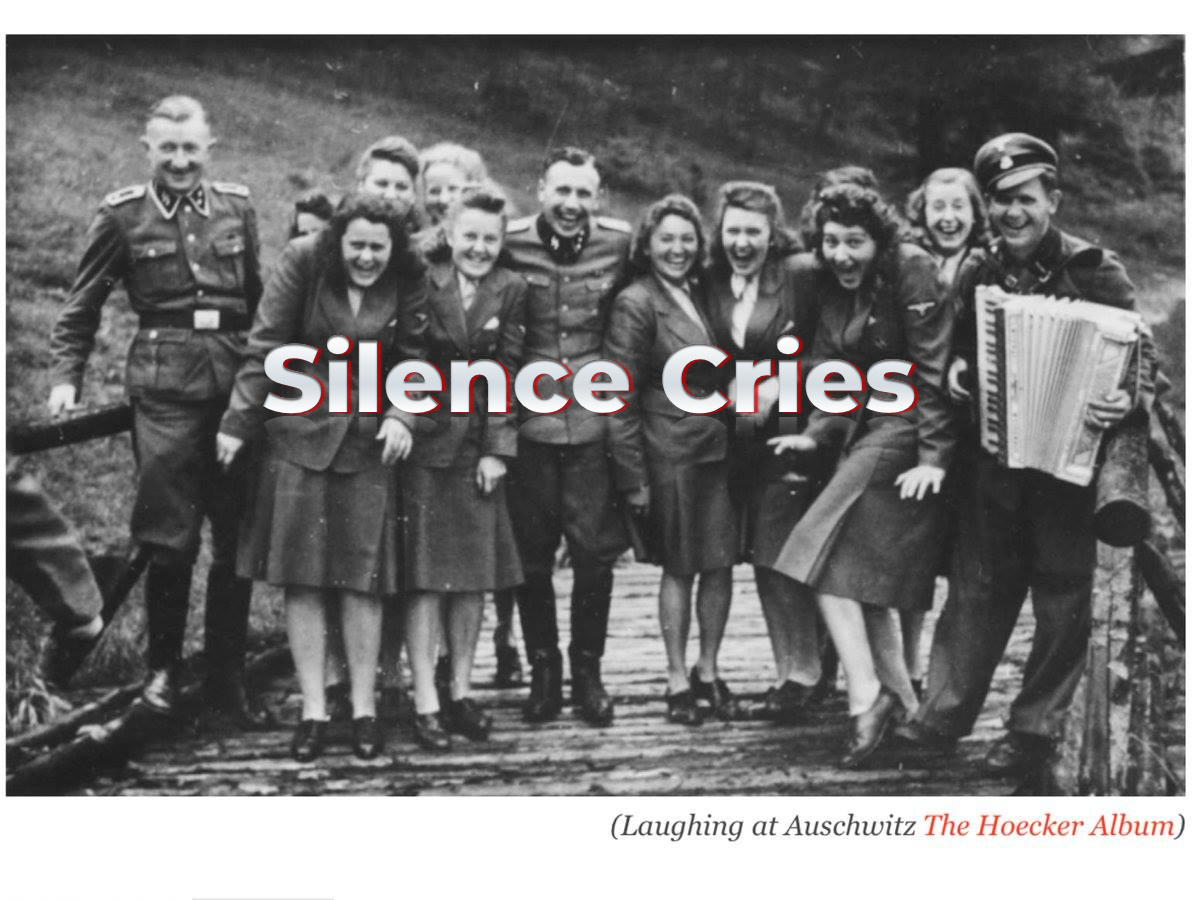
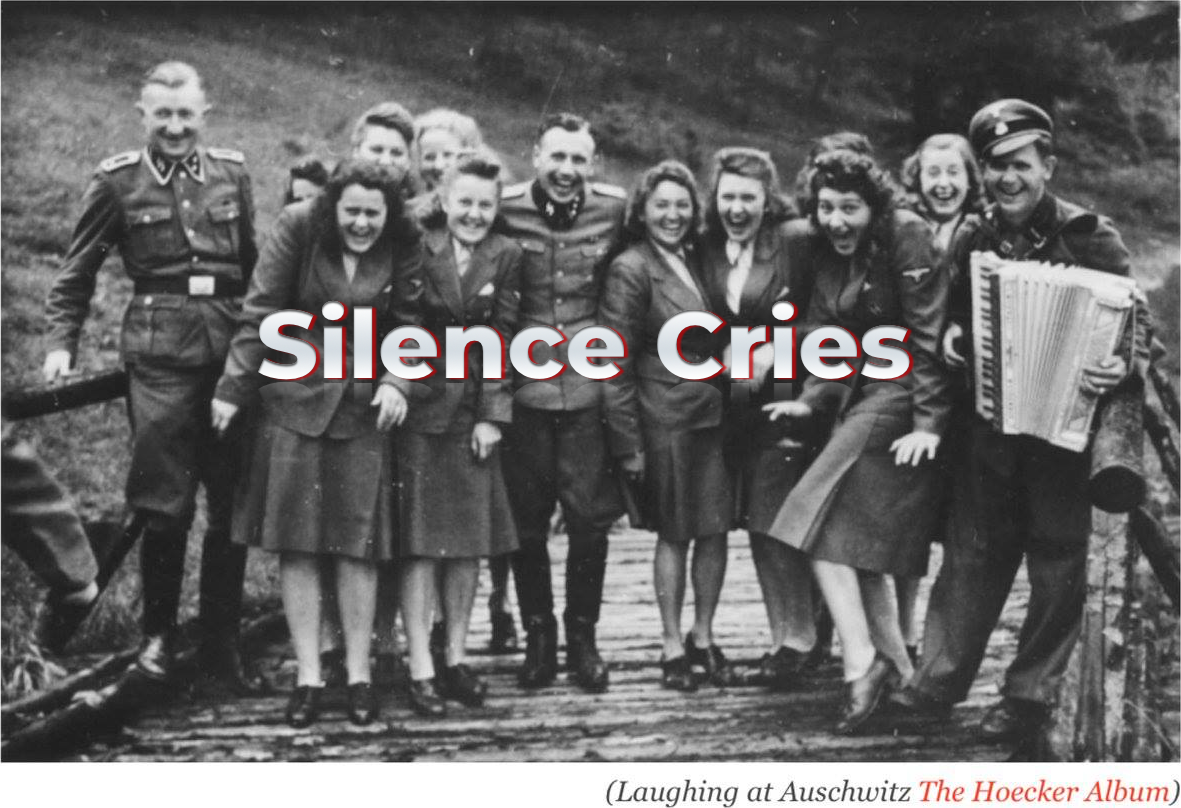
Squashed commit of the following:
commit 4b0727c2fbf952e2f87f70afaaac070ff9786e0f
Author: philmill <phil@philmill.net>
Date:   Thu Nov 26 17:15:03 2020 -0500

    chore: trim whitespace on article image

commit ee26af2c8be050decd26c8a01f5b97d6aa838aca
Author: philmill <phil@philmill.net>
Date:   Thu Nov 26 17:14:42 2020 -0500

    refactor: index article heading below image

    * adjust margins

diff --git a/src/pages/index.js b/src/pages/index.js
@@ -33,9 +33,20 @@ class BlogIndex extends React.Component {
             node.frontmatter.path ||
             node.fields.slug;
           return (
-            <div key={node.frontmatter.path || node.fields.slug}>
+            <div
+              key={node.frontmatter.path || node.fields.slug}
+              style={{ marginBottom: rhythm(2) }}
+            >
+              {node.frontmatter.featuredImage && (
+                <Link to={node.frontmatter.path || node.fields.slug}>
+                  <Img
+                    fluid={node.frontmatter.featuredImage.childImageSharp.fluid}
+                  />
+                </Link>
+              )}
               <h3
                 style={{
+                  marginTop: rhythm(3 / 4),
                   marginBottom: rhythm(1 / 4),
                 }}
               >
@@ -46,11 +57,6 @@ class BlogIndex extends React.Component {
                   {title}
                 </Link>
               </h3>
-              {node.frontmatter.featuredImage && (
-                <Img
-                  fluid={node.frontmatter.featuredImage.childImageSharp.fluid}
-                />
-              )}
               <small>{node.frontmatter.date}</small>
               <p dangerouslySetInnerHTML={{ __html: node.excerpt }} />
             </div>
